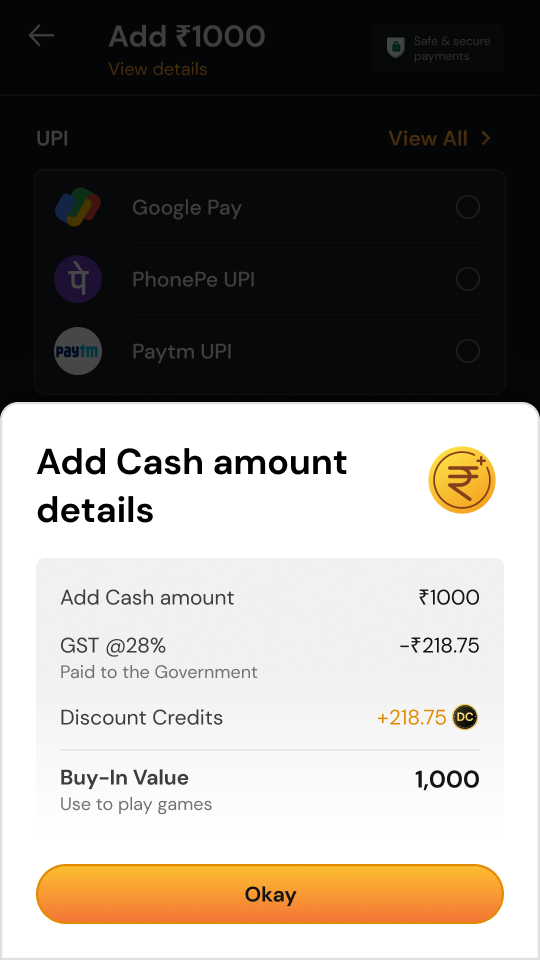
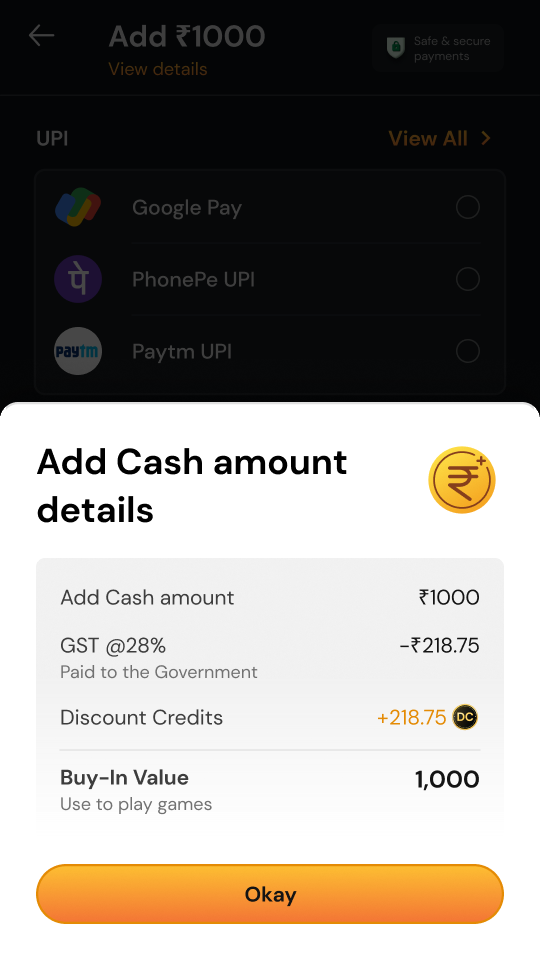
Payments: even screen borders on sheets that touch the edge
Seven screens had the bottom sheet's own 1px stroke baked into the image
edges, doubling up with the page's hairline. Three had a stray 1px line
along the bottom from the export crop. Both removed; cache versions bumped.

Changed region(s): [[0.9778, 0.4375, 1.0, 1.0], [0.0, 0.4375, 0.0296, 1.0]]

diff --git a/projects/add-cash.html b/projects/add-cash.html
@@ -422,7 +422,7 @@ html:not(.js) .reveal{opacity:1;transform:none}
         </figure>
         <span class="ac-arrow" aria-hidden="true">→</span>
         <figure>
-          <img class="ac-shot" src="../assets/img/add-cash/gst-details.png" width="540" height="960" loading="lazy" decoding="async"
+          <img class="ac-shot" src="../assets/img/add-cash/gst-details.png?v=2" width="540" height="960" loading="lazy" decoding="async"
                alt="The View details sheet: ₹1,000, GST at 28% of ₹218.75, Discount Credits of ₹218.75 and a Buy-In Value of 1,000.">
           <figcaption>View details: where the money goes</figcaption>
         </figure>
@@ -455,11 +455,11 @@ html:not(.js) .reveal{opacity:1;transform:none}
     </div>
     <div class="ac-wide">
       <div class="ac-strip reveal" style="--n:5;--w:180px">
-        <figure><img class="ac-shot" src="../assets/img/add-cash/location-ask.png" width="540" height="960" loading="lazy" decoding="async" alt="A bottom sheet asking for location permission, with the reason and a Proceed to Allow button."><figcaption>Why we ask</figcaption></figure>
+        <figure><img class="ac-shot" src="../assets/img/add-cash/location-ask.png?v=2" width="540" height="960" loading="lazy" decoding="async" alt="A bottom sheet asking for location permission, with the reason and a Proceed to Allow button."><figcaption>Why we ask</figcaption></figure>
         <figure><img class="ac-shot" src="../assets/img/add-cash/location-system.png" width="540" height="960" loading="lazy" decoding="async" alt="Android's own prompt: Allow RummyCulture to access this device's location, with Allow only while using the app, Only this time and Deny."><figcaption>Android asks</figcaption></figure>
-        <figure><img class="ac-shot" src="../assets/img/add-cash/location-denied.png" width="540" height="960" loading="lazy" decoding="async" alt="Location permission denied, with a Go to Settings button."><figcaption>If they say no</figcaption></figure>
-        <figure><img class="ac-shot" src="../assets/img/add-cash/location-unavailable.png" width="540" height="960" loading="lazy" decoding="async" alt="Add cash is unavailable at your location, with a Play Practice Games button."><figcaption>Not allowed here</figcaption></figure>
-        <figure><img class="ac-shot" src="../assets/img/add-cash/kyc.png" width="540" height="960" loading="lazy" decoding="async" alt="A bottom sheet asking the player to complete KYC by uploading documents."><figcaption>KYC, when it’s needed</figcaption></figure>
+        <figure><img class="ac-shot" src="../assets/img/add-cash/location-denied.png?v=2" width="540" height="960" loading="lazy" decoding="async" alt="Location permission denied, with a Go to Settings button."><figcaption>If they say no</figcaption></figure>
+        <figure><img class="ac-shot" src="../assets/img/add-cash/location-unavailable.png?v=2" width="540" height="960" loading="lazy" decoding="async" alt="Add cash is unavailable at your location, with a Play Practice Games button."><figcaption>Not allowed here</figcaption></figure>
+        <figure><img class="ac-shot" src="../assets/img/add-cash/kyc.png?v=2" width="540" height="960" loading="lazy" decoding="async" alt="A bottom sheet asking the player to complete KYC by uploading documents."><figcaption>KYC, when it’s needed</figcaption></figure>
       </div>
     </div>
 
@@ -578,7 +578,7 @@ html:not(.js) .reveal{opacity:1;transform:none}
         <figure><img class="ac-shot ac-shot--crop" src="../assets/img/add-cash/returning.png" width="540" height="945" loading="lazy" decoding="async" alt="A returning player's page with Paytm Wallet as preferred payment."><figcaption>The second visit</figcaption></figure>
         <figure><img class="ac-shot" src="../assets/img/add-cash/returning-wallet.png" width="540" height="960" loading="lazy" decoding="async" alt="PhonePe Wallet preferred, with Add ₹1,000 from Wallet, above the Paytm Wallet and a saved card."><figcaption>Wallet, ready to go</figcaption></figure>
         <figure><img class="ac-shot" src="../assets/img/add-cash/returning-gpay.png" width="540" height="960" loading="lazy" decoding="async" alt="Google Pay as preferred payment, with Add ₹1,000 ready."><figcaption>Google Pay, last used</figcaption></figure>
-        <figure><img class="ac-shot ac-shot--crop" src="../assets/img/add-cash/returning-two-cards.png" width="540" height="1907" loading="lazy" decoding="async" alt="Two saved cards under Preferred payment, Axis and HDFC."><figcaption>Two cards saved</figcaption></figure>
+        <figure><img class="ac-shot ac-shot--crop" src="../assets/img/add-cash/returning-two-cards.png?v=2" width="540" height="1907" loading="lazy" decoding="async" alt="Two saved cards under Preferred payment, Axis and HDFC."><figcaption>Two cards saved</figcaption></figure>
       </div>
     </div>
 
@@ -600,8 +600,8 @@ html:not(.js) .reveal{opacity:1;transform:none}
     <div class="ac-wide">
       <div class="ac-strip reveal" style="--n:4">
         <figure><img class="ac-shot" src="../assets/img/add-cash/badday-one-app.png" width="540" height="1182" loading="lazy" decoding="async" alt="PhonePe UPI dimmed with Experiencing low success rate under it, and a Flat ₹25 FreeCash nudge on cards."><figcaption>One app struggling</figcaption></figure>
-        <figure><img class="ac-shot" src="../assets/img/add-cash/badday-preferred.png" width="540" height="1514" loading="lazy" decoding="async" alt="PhonePe UPI flagged with Observing high failure rate even inside Preferred payment."><figcaption>Flagged, even when preferred</figcaption></figure>
-        <figure><img class="ac-shot" src="../assets/img/add-cash/badday-upi.png" width="540" height="1514" loading="lazy" decoding="async" alt="A banner under UPI: UPI is facing issues. We recommend you to use another payment mode."><figcaption>All of UPI struggling</figcaption></figure>
+        <figure><img class="ac-shot" src="../assets/img/add-cash/badday-preferred.png?v=2" width="540" height="1514" loading="lazy" decoding="async" alt="PhonePe UPI flagged with Observing high failure rate even inside Preferred payment."><figcaption>Flagged, even when preferred</figcaption></figure>
+        <figure><img class="ac-shot" src="../assets/img/add-cash/badday-upi.png?v=2" width="540" height="1514" loading="lazy" decoding="async" alt="A banner under UPI: UPI is facing issues. We recommend you to use another payment mode."><figcaption>All of UPI struggling</figcaption></figure>
         <figure><img class="ac-shot" src="../assets/img/add-cash/badday-upi-dimmed.png" width="540" height="1848" loading="lazy" decoding="async" alt="The UPI section moved to the bottom of the page and dimmed."><figcaption>UPI moved down and dimmed</figcaption></figure>
       </div>
     </div>
@@ -626,8 +626,8 @@ html:not(.js) .reveal{opacity:1;transform:none}
     </div>
     <div class="ac-wide">
       <div class="ac-strip reveal" style="--n:3;--w:220px">
-        <figure><img class="ac-shot" src="../assets/img/add-cash/failed.png?v=3" width="540" height="960" loading="lazy" decoding="async" alt="An Add Cash failed sheet with the transaction ID, amount, a note on refunds in 5–7 bank working days, and Retry Add Cash."><figcaption>Their money, first</figcaption></figure>
-        <figure><img class="ac-shot" src="../assets/img/add-cash/failed-retry.png?v=3" width="540" height="960" loading="lazy" decoding="async" alt="A failure sheet offering Retry with Google Pay or Try Another Method."><figcaption>Retry, or switch</figcaption></figure>
+        <figure><img class="ac-shot" src="../assets/img/add-cash/failed.png?v=4" width="540" height="960" loading="lazy" decoding="async" alt="An Add Cash failed sheet with the transaction ID, amount, a note on refunds in 5–7 bank working days, and Retry Add Cash."><figcaption>Their money, first</figcaption></figure>
+        <figure><img class="ac-shot" src="../assets/img/add-cash/failed-retry.png?v=4" width="540" height="960" loading="lazy" decoding="async" alt="A failure sheet offering Retry with Google Pay or Try Another Method."><figcaption>Retry, or switch</figcaption></figure>
         <figure><img class="ac-shot" src="../assets/img/add-cash/something-went-wrong.png" width="540" height="960" loading="lazy" decoding="async" alt="A Something went wrong state."><figcaption>Something went wrong</figcaption></figure>
       </div>
     </div>
